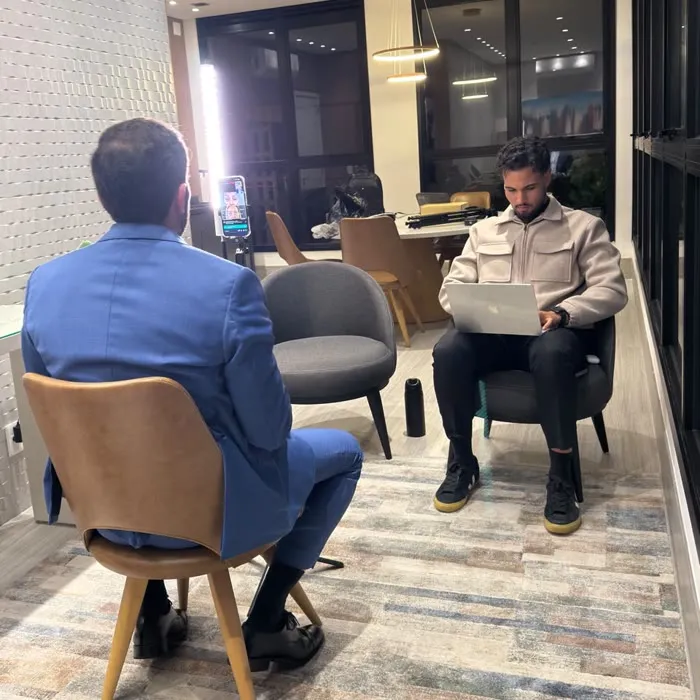
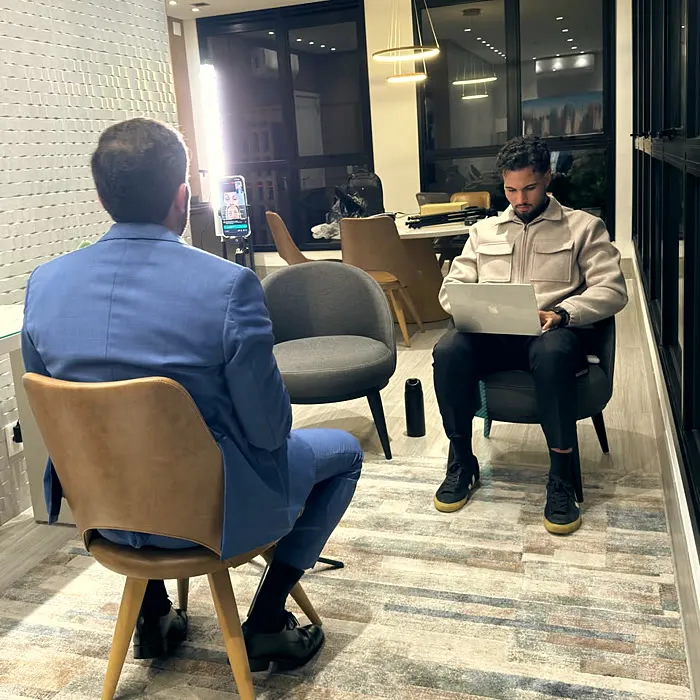
fix(protocolo): colagem com a outra pessoa em quadro e cor tratada igual nas cinco

diff --git a/src/components/protocolo/fotoQuem.js b/src/components/protocolo/fotoQuem.js
@@ -1,15 +1,16 @@
 // Colagem do bloco "Quem": quadros reais do SIOK 2025 (vídeos em Drive "Fotos - Vídeos/Siok/Takes - Siok Tiago")
-// e o bastidor de uma gravação com médico (jun/2026). A primeira é a principal.
+// e o bastidor de uma gravação com médico (jun/2026). A primeira é a principal. Nos quadros menores
+// aparece a outra pessoa junto (pedido do Tiago: ele não fica isolado). Cor tratada igual nas cinco.
 import palco from "../../assets/protocolo/colagem/palco.webp";
-import fala from "../../assets/protocolo/colagem/fala.webp";
-import sorriso from "../../assets/protocolo/colagem/sorriso.webp";
+import conversa from "../../assets/protocolo/colagem/conversa.webp";
+import escuta from "../../assets/protocolo/colagem/escuta.webp";
 import mesa from "../../assets/protocolo/colagem/mesa.webp";
 import gravacao from "../../assets/protocolo/colagem/gravacao.webp";
 
 export const colagem = [
   { src: palco, alt: "Tiago Santos no palco do SIOK 2025, com o microfone" },
-  { src: fala, alt: "Tiago Santos conversando no simpósio" },
-  { src: sorriso, alt: "Tiago Santos em conversa com médico no simpósio" },
+  { src: conversa, alt: "Tiago Santos explicando a um médico no simpósio" },
+  { src: escuta, alt: "Médico ouvindo Tiago Santos no simpósio" },
   { src: mesa, alt: "Tiago Santos na mesa de operação do evento" },
   { src: gravacao, alt: "Bastidor de uma gravação com médico" },
 ];
